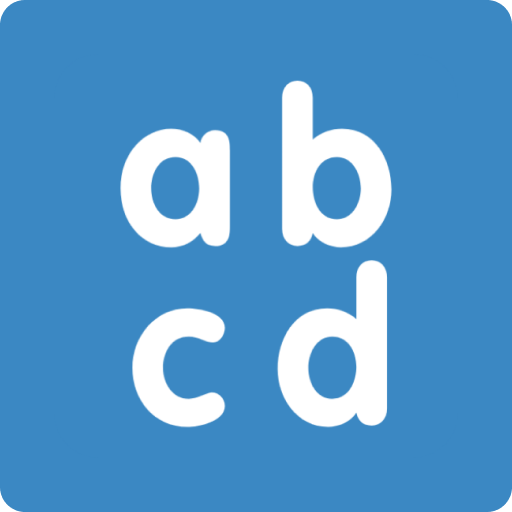
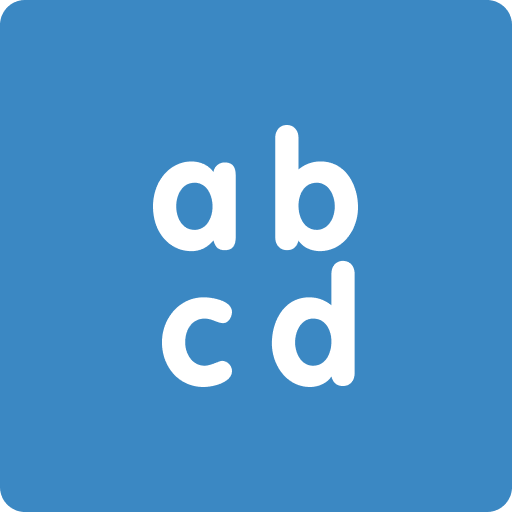
fixes

Changed region(s): [[0.5312, 0.1562, 0.7812, 0.8438], [0.2188, 0.25, 0.4688, 0.5], [0.25, 0.5625, 0.4688, 0.8438]]

diff --git a/src/components/Toasts/styles.ts b/src/components/Toasts/styles.ts
@@ -1,24 +1,23 @@
 import { keyframes, styled } from 'styles';
 
 export const Container = styled('div', {
-  position: 'fixed',
-  inset: 0,
+  position: 'absolute',
   display: 'flex',
   pointerEvents: 'none',
   flexDirection: 'column',
   alignItems: 'center',
   justifyContent: 'flex-end',
-
+  inset: 0,
   gap: '$0',
   padding: '$0',
-  paddingBottom: '2.5rem',
+  transform: 'translateY(1rem)',
+  zIndex: '$toast',
 });
 
 const toastEnter = keyframes({
   '0%': {
     opacity: '0',
     transform: 'scale(.6)',
-    height: '0',
   },
 
   '60%': {
@@ -28,7 +27,6 @@ const toastEnter = keyframes({
   '100%': {
     opacity: '1',
     transform: 'scale(1)',
-    height: '4rem',
   },
 });
 
@@ -36,13 +34,11 @@ const toastExit = keyframes({
   '0%': {
     opacity: '1',
     transform: 'scale(1)',
-    height: '4rem',
   },
 
   '100%': {
     opacity: '0',
     transform: 'scale(.6)',
-    height: '0',
   },
 });
 
@@ -70,9 +66,8 @@ export const Toast = styled('div', {
     exiting: {
       true: {
         animation: `${toastExit} .15s ease`,
-        opacity: '0',
         transform: 'scale(.6)',
-        height: '0',
+        opacity: '0',
       },
     },
   },

diff --git a/src/styles/index.ts b/src/styles/index.ts
@@ -5,26 +5,20 @@ import { LETTERS_PER_ROW } from 'constants';
 export const { globalCss, styled, keyframes } = createStitches({
   theme: {
     colors: {
-      blue: '#3B88C3',
-      darkBlue: '#2a72a8',
-      darkerBlue: '#195785',
+      blue: '#3177ad',
+      darkBlue: '#24689c',
       yellow: '#F2CD5D',
       orange: '#cc963f',
       darkOrange: '#b5812f',
+      text: '$orange',
       green: '#169873',
       darkGreen: '#0c7d5d',
       white: '#fff',
       gray: '#aaa',
       darkGray: '#888',
-      lightGray: '#e5e5e5',
-      lighterGray: '#f1f1f1',
       overlay: 'rgba(0,0,0,.3)',
-
-      stroke: '$lightGray',
+      stroke: '#e5e5e5',
       background: '$yellow',
-
-      text: '#000',
-      textLight: '#fff',
     },
 
     fontSizes: {
@@ -50,6 +44,11 @@ export const { globalCss, styled, keyframes } = createStitches({
 
     radii: {
       1: '.5rem',
+    },
+
+    zIndices: {
+      toast: 11,
+      modal: 10,
     },
   },
 });

diff --git a/src/components/Modal/styles.ts b/src/components/Modal/styles.ts
@@ -10,6 +10,7 @@ export const Overlay = styled('div', {
   opacity: 0,
   pointerEvents: 'none',
   transition: 'opacity .2s ease',
+  zIndex: '$modal',
 
   variants: {
     open: {
@@ -28,6 +29,7 @@ export const Container = styled('div', {
   display: 'flex',
   alignItems: 'center',
   justifyContent: 'center',
+  zIndex: '$modal',
 });
 
 export const Content = styled('div', {
@@ -36,7 +38,7 @@ export const Content = styled('div', {
   backgroundColor: '$white',
   width: '40rem',
   borderRadius: '$1',
-  border: '.2rem solid $orange',
+  border: '.2rem solid $text',
 
   pointerEvents: 'none',
   opacity: 0,
@@ -71,7 +73,7 @@ export const Header = styled('div', {
 });
 
 export const ModalTitle = styled('h2', {
-  color: '$orange',
+  color: '$text',
   fontSize: '$large',
   fontWeight: 'bold',
 });

diff --git a/src/styles/components.ts b/src/styles/components.ts
@@ -6,7 +6,7 @@ export const SectionTitle = styled('h3', {
   fontSize: '1.25em',
   marginBottom: '.75em',
   display: 'block',
-  color: '$orange',
+  color: '$text',
 
   '&::after': {
     content: '',
@@ -15,7 +15,7 @@ export const SectionTitle = styled('h3', {
     marginTop: '$0',
     width: '100%',
     borderRadius: '$1',
-    backgroundColor: '$orange',
+    backgroundColor: '$text',
   },
 });
 
@@ -59,8 +59,8 @@ export const Button = styled('button', {
 
       ghost: {
         background: 'none',
-        borderColor: '$orange',
-        color: '$orange',
+        borderColor: '$text',
+        color: '$text',
       },
     },
   },

diff --git a/src/components/Game/index.tsx b/src/components/Game/index.tsx
@@ -1,5 +1,6 @@
 import { Actions } from 'components/Actions';
 import { Title } from 'components/Title';
+import { Toasts } from 'components/Toasts';
 import { MAX_LETTERS, UNUSED_DROPPABLE_ID, UNUSED_ROW_LENGTH } from 'constants';
 import { useGame } from 'hooks';
 import React from 'react';
@@ -171,6 +172,8 @@ export const Game: React.FC = () => {
               </Droppable>
             ),
           )}
+
+          <Toasts />
         </BenchContainer>
       </DragDropContext>
     </GameContainer>

diff --git a/src/App.tsx b/src/App.tsx
@@ -1,5 +1,4 @@
 import { Game } from 'components/Game';
-import { Toasts } from 'components/Toasts';
 import { DataProvider } from 'contexts/data';
 import { GameProvider } from 'contexts/game';
 import { ToastProvider } from 'contexts/toast';
@@ -39,8 +38,6 @@ export const App: React.FC = () => {
           <Game />
         </GameProvider>
       </DataProvider>
-
-      <Toasts />
     </ToastProvider>
   );
 };

diff --git a/src/components/Instructions/styles.ts b/src/components/Instructions/styles.ts
@@ -13,7 +13,7 @@ export const List = styled('ul', {
     display: 'flex',
     alignItems: 'center',
     gap: '$0',
-    color: '$orange',
+    color: '$text',
     fontWeight: 'bold',
 
     '&:not(:last-child)': {
@@ -28,6 +28,7 @@ export const Image = styled('figure', {
   borderRadius: '$1',
   overflow: 'hidden',
   marginBottom: '$1',
+  border: '.2rem solid $text',
 
   '& > img': {
     width: '100%',

diff --git a/src/components/Game/styles.ts b/src/components/Game/styles.ts
@@ -71,6 +71,7 @@ export const LetterContainer = styled('span', {
 });
 
 export const BenchContainer = styled('div', {
+  position: 'relative',
   minWidth: `calc(${UNUSED_ROW_LENGTH} * $letterSize + ($letterSpacing * ${
     UNUSED_ROW_LENGTH + 1
   }))`,

diff --git a/src/components/Title/styles.ts b/src/components/Title/styles.ts
@@ -7,7 +7,6 @@ export const Container = styled('div', {
   backgroundColor: '$blue',
   borderRadius: '$1',
   padding: '.25rem .5rem',
-  paddingLeft: '.25rem',
   border: '.2rem solid $darkBlue',
   marginBottom: '1rem',
 

diff --git a/src/components/Title/index.tsx b/src/components/Title/index.tsx
@@ -1,4 +1,4 @@
-import Logo from 'assets/images/logo.png';
+import Logo from 'assets/images/logo.svg';
 import { GAME_NAME } from 'constants';
 import { useGame } from 'hooks';
 import React from 'react';
